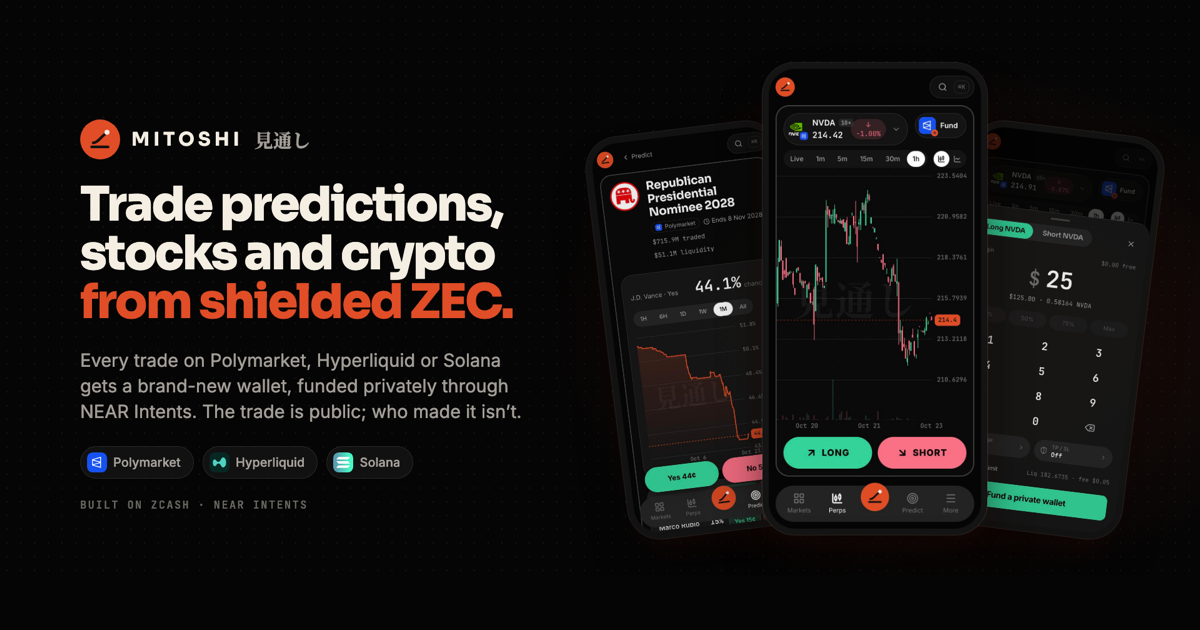
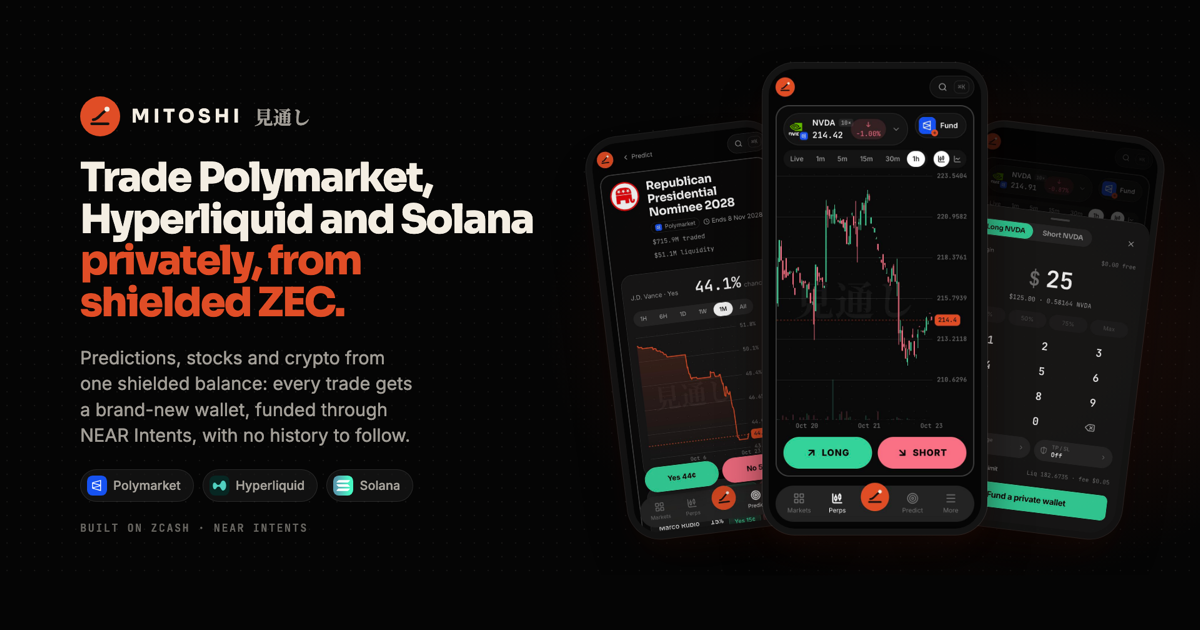
Hero: trade Polymarket, Hyperliquid and Solana privately, from shielded ZEC
The headline now says what Mitoshi is for (private trading on the venues traders
already use, with Zcash as the engine) and the subline carries what you trade and
how: predictions, stocks and crypto from one shielded balance, every trade from a
brand-new wallet funded through NEAR Intents, with no history to follow. Landing,
metadata, manifest, docs, README, banner, link preview, package and submission all
carry the same pair; the landing headline is sized to its longest line.

Changed region(s): [[0.0617, 0.1508, 0.4625, 0.5127], [0.0617, 0.5429, 0.4317, 0.8444]]

diff --git a/.github/assets/source/banner.html b/.github/assets/source/banner.html
@@ -30,13 +30,13 @@
       radial-gradient(circle, rgb(244 238 227 / 0.07) 1.2px, transparent 1.6px) 0 0 / 22px 22px,
       var(--bg);
   }
-  .left { position: absolute; left: 128px; top: 0; bottom: 0; width: 780px; display: flex; flex-direction: column; justify-content: center; gap: 34px; }
+  .left { position: absolute; left: 128px; top: 0; bottom: 0; width: 820px; display: flex; flex-direction: column; justify-content: center; gap: 34px; }
   .brand { display: flex; align-items: center; gap: 18px; }
   .seal { width: 64px; height: 64px; border-radius: 50%; background: var(--accent); display: grid; place-items: center; }
   .seal svg { width: 58%; }
   .word { font: 700 30px/1 Sora, sans-serif; letter-spacing: 0.2em; }
   .stamp { font: 700 30px/1 "Mitoshi Serif", serif; color: var(--ink-2); }
-  h1 { font: 800 76px/1.02 Sora, sans-serif; letter-spacing: -0.035em; }
+  h1 { font: 800 64px/1.04 Sora, sans-serif; letter-spacing: -0.035em; }
   h1 em { font-style: normal; color: var(--accent); }
   .sub { font: 400 29px/1.42 Inter, sans-serif; color: var(--ink-2); max-width: 720px; text-wrap: balance; }
   .venues { display: flex; align-items: center; gap: 14px; flex-wrap: wrap; }
@@ -72,8 +72,8 @@
       <span class="word">MITOSHI</span>
       <span class="stamp">見通し</span>
     </div>
-    <h1>Trade predictions,<br />stocks and crypto<br /><em>from shielded ZEC.</em></h1>
-    <p class="sub">Every trade on Polymarket, Hyperliquid or Solana gets a <span style="white-space:nowrap">brand-new</span> wallet, funded privately through NEAR Intents. The trade is public; who made it isn&rsquo;t.</p>
+    <h1>Trade Polymarket,<br />Hyperliquid and Solana<br /><em>privately, from<br />shielded ZEC.</em></h1>
+    <p class="sub">Predictions, stocks and crypto from one shielded balance: every trade gets a <span style="white-space:nowrap">brand-new</span> wallet, funded through NEAR Intents, with no history to follow.</p>
     <div class="venues">
       <span class="venue"><img src="../../../apps/web/public/marks/venue-polymarket.svg" alt="" />Polymarket</span>
       <span class="venue"><img src="../../../apps/web/public/marks/venue-hyperliquid.svg" alt="" />Hyperliquid</span>

diff --git a/apps/web/src/features/landing/landing.tsx b/apps/web/src/features/landing/landing.tsx
@@ -23,7 +23,7 @@ function Hero() {
       </span>
       <JudgeStrip />
       <LandingNav />
-      <div className="lp-wrap relative grid items-center gap-12 pt-12 md:pt-20 lg:grid-cols-[minmax(0,1.05fr)_minmax(0,1fr)]">
+      <div className="lp-wrap relative grid items-center gap-12 pt-12 md:pt-20 lg:grid-cols-[minmax(0,1.35fr)_minmax(0,1fr)]">
         <div className="lp-rise flex flex-col items-start gap-6">
           <span className="inline-flex items-center gap-2 rounded-full bg-[var(--lp-card-2)] px-3 py-1.5 text-[13px] shadow-[inset_0_0_0_1px_var(--lp-line)]">
             <span className="size-1.5 rounded-full bg-[var(--up)]" />
@@ -37,9 +37,11 @@ function Hero() {
                 {line}
               </span>
             ))}
-            <span className="block">
-              <em>{L.hero.accent}</em>
-            </span>
+            {L.hero.accent.map((line) => (
+              <span key={line} className="block">
+                <em>{line}</em>
+              </span>
+            ))}
           </h1>
           <p className="lp-line max-w-[34rem]">{L.hero.line}</p>
           <div className="flex flex-wrap gap-3">

diff --git a/apps/web/src/app/layout.tsx b/apps/web/src/app/layout.tsx
@@ -4,9 +4,9 @@ import { THEME_INIT } from "@/features/theme/theme";
 import { fontVariables } from "@/lib/fonts";
 import "./globals.css";
 
-const TITLE = "Mitoshi 見通し · Trade predictions, stocks and crypto from shielded ZEC";
+const TITLE = "Mitoshi 見通し · Trade Polymarket, Hyperliquid and Solana privately, from shielded ZEC";
 const DESCRIPTION =
-  "Every trade on Polymarket, Hyperliquid or Solana gets a brand-new wallet, funded privately through NEAR Intents. The trade is public; who made it isn't.";
+  "Predictions, stocks and crypto from one shielded balance: every trade gets a brand-new wallet, funded through NEAR Intents, with no history to follow.";
 /** The link preview (public/og.png), made from the README banner: .github/assets/source/banner.html#og. */
 const OG_WIDTH = 1200;
 const OG_HEIGHT = 630;
@@ -14,7 +14,7 @@ const OG_IMAGE = {
   url: "/og.png",
   width: OG_WIDTH,
   height: OG_HEIGHT,
-  alt: "Mitoshi: trade predictions, stocks and crypto from shielded ZEC",
+  alt: "Mitoshi: trade Polymarket, Hyperliquid and Solana privately, from shielded ZEC",
 };
 
 export const metadata: Metadata = {

diff --git a/apps/docs/src/lib/site.ts b/apps/docs/src/lib/site.ts
@@ -8,12 +8,12 @@ export const SITE = {
   url: "https://docs.mitoshi.xyz",
   app: "https://mitoshi.xyz",
   repo: "https://github.com/mitoshi-xyz/mitoshi",
-  headline: "Trade predictions, stocks and crypto from shielded ZEC.",
+  headline: "Trade Polymarket, Hyperliquid and Solana privately, from shielded ZEC.",
   subline:
-    "Every trade on Polymarket, Hyperliquid or Solana gets a brand-new wallet, funded privately through NEAR Intents. The trade is public; who made it isn't.",
+    "Predictions, stocks and crypto from one shielded balance: every trade gets a brand-new wallet, funded through NEAR Intents, with no history to follow.",
   motto: "A new wallet for every trade.",
   description:
-    "Trade predictions, stocks and crypto from shielded ZEC: every trade on Polymarket, Hyperliquid or Solana gets a brand-new wallet, funded privately through NEAR Intents.",
+    "Trade Polymarket, Hyperliquid and Solana privately, from shielded ZEC: every trade gets a brand-new wallet, funded through NEAR Intents, with no history to follow.",
 } as const;
 
 /** The docs' sections (the top tabs) and where each starts. */

diff --git a/apps/web/src/features/landing/copy.ts b/apps/web/src/features/landing/copy.ts
@@ -11,9 +11,9 @@ export const LANDING = {
   },
   hero: {
     chip: "Live on Zcash mainnet",
-    title: ["Trade predictions,", "stocks and crypto"],
-    accent: "from shielded ZEC.",
-    line: "Every trade on Polymarket, Hyperliquid or Solana gets a brand-new wallet, funded privately through NEAR Intents. The trade is public; who made it isn't.",
+    title: ["Trade Polymarket,", "Hyperliquid and Solana"],
+    accent: ["privately, from", "shielded ZEC."],
+    line: "Predictions, stocks and crypto from one shielded balance: every trade gets a brand-new wallet, funded through NEAR Intents, with no history to follow.",
     open: "Open Mitoshi",
     how: "How it works",
     small: "No account · no sign-up · your keys stay in this browser",

diff --git a/apps/docs/src/components/home/hero.tsx b/apps/docs/src/components/home/hero.tsx
@@ -24,8 +24,8 @@ export function Hero() {
             {SITE.motto}
           </span>
           <h1 className="font-heading font-semibold text-[2.4rem] leading-[1.04] tracking-[-0.03em] sm:text-[3.4rem]">
-            Trade predictions, stocks and crypto{" "}
-            <span className="text-[var(--mt-accent-text)]">from shielded ZEC.</span>
+            Trade Polymarket, Hyperliquid and Solana{" "}
+            <span className="text-[var(--mt-accent-text)]">privately, from shielded ZEC.</span>
           </h1>
           <p className="max-w-[46ch] text-[1.08rem] text-fd-muted-foreground leading-relaxed">{SITE.subline}</p>
           <div className="flex flex-wrap items-center gap-3">

diff --git a/apps/web/src/app/manifest.ts b/apps/web/src/app/manifest.ts
@@ -7,7 +7,7 @@ export default function manifest(): MetadataRoute.Manifest {
   return {
     name: "Mitoshi 見通し",
     short_name: "Mitoshi",
-    description: "Trade predictions, stocks and crypto from shielded ZEC. A new wallet for every trade.",
+    description: "Trade Polymarket, Hyperliquid and Solana privately, from shielded ZEC. A new wallet for every trade.",
     start_url: "/markets",
     display: "standalone",
     background_color: "#050505",

diff --git a/apps/web/src/app/demo/page.tsx b/apps/web/src/app/demo/page.tsx
@@ -4,7 +4,7 @@ import { Demo } from "@/features/landing/demo";
 export const metadata: Metadata = {
   title: "Demo · Mitoshi 見通し",
   description:
-    "Mitoshi in two minutes: predictions, stocks and crypto from shielded ZEC, a new wallet for every trade.",
+    "Mitoshi in two minutes: Polymarket, Hyperliquid and Solana, privately, from shielded ZEC. A new wallet for every trade.",
 };
 
 export default function DemoPage() {

diff --git a/apps/web/src/styles/landing.css b/apps/web/src/styles/landing.css
@@ -77,7 +77,8 @@
 
 /* Type */
 .lp-h1 {
-  font: 800 clamp(36px, 4.7vw, 68px) / 1 var(--font-heading);
+  /* Sized to the longest line, "Hyperliquid and Solana", so each line of the hero stays whole on wide screens. */
+  font: 800 clamp(34px, 3.8vw, 56px) / 1.02 var(--font-heading);
   letter-spacing: -0.04em;
   background: linear-gradient(180deg, #fffaf0 0%, #d9d2c5 55%, #8f887c 100%);
   -webkit-background-clip: text;

diff --git a/README.md b/README.md
@@ -1,11 +1,11 @@
 <p align="center">
   <a href="https://mitoshi.xyz">
-    <picture><img src=".github/assets/banner.png" width="960" alt="Mitoshi 見通し. Trade predictions, stocks and crypto from shielded ZEC. Every trade on Polymarket, Hyperliquid or Solana gets a brand-new wallet, funded privately through NEAR Intents. The trade is public; who made it isn't. Three phone screens from the app: a Polymarket event, the NVIDIA perps terminal and a Long order sheet." /></picture>
+    <picture><img src=".github/assets/banner.png" width="960" alt="Mitoshi 見通し. A new wallet for every trade. Trade Polymarket, Hyperliquid and Solana privately, from shielded ZEC. Predictions, stocks and crypto from one shielded balance: every trade gets a brand-new wallet, funded through NEAR Intents, with no history to follow. Three phone screens from the app: a Polymarket event, the NVIDIA perps terminal and a Long order sheet." /></picture>
   </a>
 </p>
 
 <h1 align="center">Mitoshi · 見通し</h1>
-<p align="center"><b>A new wallet for every trade.</b><br/>Trade predictions, stocks and crypto from shielded ZEC.</p>
+<p align="center"><b>A new wallet for every trade.</b><br/>Trade Polymarket, Hyperliquid and Solana privately, from shielded ZEC.</p>
 
 <p align="center">
   <a href="https://mitoshi.xyz"><b>Open Mitoshi</b></a>
@@ -23,17 +23,20 @@
   <a href="https://mitoshi.xyz/status"><b>Status</b></a>
 </p>
 
-Every trade on Polymarket, Hyperliquid or Solana gets a brand-new wallet, funded privately through NEAR Intents. The
-trade is public; who made it isn't. From one shielded ZEC balance you bet on prediction markets, trade US stocks,
+Predictions, stocks and crypto from one shielded balance: every trade gets a brand-new wallet, funded through NEAR
+Intents, with no history to follow. From one shielded ZEC balance you bet on prediction markets, trade US stocks,
 indices, gold and oil, go long or short on crypto perps, and buy Solana tokens, with one portfolio across all of them.
 The privacy is the engine: a real Zcash wallet runs in your browser, every funding is one standard amount sent at a
 random moment, every call about your wallets travels over Oblivious HTTP, and Send home swaps the money back to a fresh
-shielded address. The market sees the trade, not who made it.
+shielded address.
 
 Built for **[ZECATHON](https://thezecathon.com) · Private Markets** ([how Mitoshi meets the hackathon](#how-mitoshi-meets-the-hackathon)).
-**Judges:** the Working demo link in our submission opens a shared wallet with real money on Hyperliquid, at
-judge.mitoshi.xyz. Trade in 30 seconds.
 *Mitoshi* (見通し) means **outlook**: the view ahead.
+
+> **Judges: try it in 30 seconds.** The **Working demo** link in our submission opens judge.mitoshi.xyz with a shared
+> wallet that already holds real money on Hyperliquid, funded from shielded ZEC. Press **Trade BTC now** and go long or
+> short ($2.50 at 5× clears Hyperliquid's $10 minimum). Then the **Judge** button at the top walks you through what the
+> public sees and the funding on the Zcash explorer. No link to hand? [Look around](https://mitoshi.xyz/markets).
 
 ## The problem
 
@@ -79,8 +82,8 @@ sees one funding, one trade and no history.
 2. **Pick a market.** Say NVIDIA on Polymarket Perps. The ticket starts with the amount: **$25 at 5×** is a **$125.00**
    position, **0.58164 NVDA**, fee **$0.05**.
 3. **A wallet nobody has seen.** Mitoshi derives a new key for this position and pays one standard amount (0.005, 0.01,
-   0.02 … ZEC) from the shielded pool into NEAR Intents at a random moment. A confidential quote on 2026-10-23 turned
-   **0.01 ZEC into 11.86 USDC in about 465 s**.
+   0.02 … ZEC) from the shielded pool into NEAR Intents at a random moment. On 2026-10-27 a real **0.005 ZEC funding
+   arrived as 6.13 USDC on Hyperliquid, ready to trade 14 minutes later**.
 4. **Trade.** The order goes to the venue's real book, signed by that wallet's own key (on Polymarket Perps, by a
    7-day proxy that key authorises).
 5. **See what a copy trader sees.** "What the public sees" opens the wallet's public record: one funding from a NEAR
@@ -172,12 +175,13 @@ ZECATHON's brief: *"Thirty days to build something on Zcash that does not leak."
 | **Execution:** "Does it run. Working beats ambitious." | Live on mainnet with live venue data; a mainnet funding from the browser wallet to Hyperliquid; 40 unit tests | [Proof and evidence](#proof-and-evidence) |
 | **Originality:** "Built for this hackathon, not repackaged." | Written during the build window; a full Zcash wallet on librustzcash compiled to WASI for the browser, and one shielded balance behind four public venues | [Commit history](https://github.com/mitoshi-xyz/mitoshi/commits/main) |
 | **Private Markets:** "anything where the price should be public and the participants should not." | The venues' prices and books stay public; the trader behind each position does not | [One trade, start to finish](#one-trade-start-to-finish) |
+| **Working demo:** "Something the judges can open and use." | A shared wallet with real money on Hyperliquid, opened by the link in the submission at judge.mitoshi.xyz; or mitoshi.xyz with your own wallet | [judge.mitoshi.xyz](https://judge.mitoshi.xyz) |
 | "All code written during the build window. Libraries are fine; existing products are not." | The repository's history starts on 2026-10-22; libraries are listed above and in the lockfile | [Prior work](#prior-work) |
 | "Open source at submission." | MIT, public | [LICENSE](LICENSE) |
 
 ## Proof and evidence
 
-Dated; re-checked on 2026-10-23.
+Dated: the mainnet funding on 2026-10-27, the rest checked on 2026-10-23.
 
 | What | Evidence |
 | --- | --- |
@@ -201,7 +205,7 @@ testnet explorers follow an older testnet chain and do not show them.
 | **Predict** · Polymarket | Events with their odds history, every outcome, Yes or No at market or limit, the order book, redeem after resolution | [/predict](https://mitoshi.xyz/predict) | [Polymarket](https://docs.mitoshi.xyz/docs/venues/polymarket) |
 | **Perps** · Polymarket Perps and Hyperliquid | US stocks, indices, gold and oil, and crypto: live candles, long or short, leverage and TP/SL in their own sheets, close | [/trade](https://mitoshi.xyz/trade#pm/NVDA-USD) | [Perps](https://docs.mitoshi.xyz/docs/venues/polymarket-perps) · [Hyperliquid](https://docs.mitoshi.xyz/docs/venues/hyperliquid) |
 | **Tokens** · Solana through Jupiter | Trending tokens, a live chart, buy and sell | [/tokens](https://mitoshi.xyz/tokens) | [Solana](https://docs.mitoshi.xyz/docs/venues/solana) |
-| **Portfolio** | Every position across every wallet and venue, P&L, history, deposit and withdraw | [/portfolio](https://mitoshi.xyz/portfolio) | [Portfolio](https://docs.mitoshi.xyz/docs/guide/portfolio) |
+| **Portfolio** | One live total for everything you own, your assets token by token, open positions with live P&L, history, deposit and withdraw | [/portfolio](https://mitoshi.xyz/portfolio) | [Portfolio](https://docs.mitoshi.xyz/docs/guide/portfolio) |
 | **Wallets** | Each private wallet's timeline, "keep one ready", what the public sees, send home | [/wallets](https://mitoshi.xyz/wallets) | [Private wallets](https://docs.mitoshi.xyz/docs/guide/private-wallets) |
 | **Privacy and status** | Who sees what and the leak meter; the live state of every hop | [/privacy](https://mitoshi.xyz/privacy) · [/status](https://mitoshi.xyz/status) | [Privacy](https://docs.mitoshi.xyz/docs/privacy) · [Verify](https://docs.mitoshi.xyz/docs/privacy/verify) |
 | **Settings** | Recovery words and an encrypted backup file, a passphrase lock, Forget | [/settings](https://mitoshi.xyz/settings) | [Backup and recovery](https://docs.mitoshi.xyz/docs/guide/backup-and-recovery) |

diff --git a/.github/submission/fields.md b/.github/submission/fields.md
@@ -7,7 +7,7 @@ separate problem field, so the problem opens the Description in the README's wor
 | --- | --- | --- |
 | Project name | 64 | Mitoshi 見通し |
 | Track | one | Private Markets |
-| Description | 2000 | below (1,995 characters) |
+| Description | 2000 | below (1,989 characters) |
 | Code repository | URL | https://github.com/mitoshi-xyz/mitoshi |
 | Working demo | URL | The judges' link (`https://judge.mitoshi.xyz/#k=…`): the owner holds it; the key never goes in this repository |
 | Demo video | URL | (the two-minute recording, once uploaded) |
@@ -16,11 +16,11 @@ separate problem field, so the problem opens the Description in the README's wor
 ## Description
 
 ```text
-Trade predictions, stocks and crypto from shielded ZEC. Every trade on Polymarket, Hyperliquid or Solana gets a brand-new wallet, funded privately through NEAR Intents. The trade is public; who made it isn't.
+Trade Polymarket, Hyperliquid and Solana privately, from shielded ZEC. Predictions, stocks and crypto from one shielded balance: every trade gets a brand-new wallet, funded through NEAR Intents, with no history to follow.
 
 The problem: on these markets every trade is public, and tools rank wallets so others can copy them. Traders use a new wallet for every trade, but the money that funds it gives it away: a transfer from the main wallet is public, and an exchange records every withdrawal under your name. "I created another wallet to trade in peace and people found it."
 
-What it does: a real Zcash wallet (librustzcash in WASM, Ironwood-ready) runs in your browser. For each position on Polymarket, Polymarket Perps (US stocks, gold, oil), Hyperliquid or Solana, Mitoshi derives a fresh key and funds it from the shielded pool through NEAR Intents. The order goes to the venue's real book. Send home swaps the money back to a fresh shielded address. No account, no fee.
+What it does: a real Zcash wallet (librustzcash in WASM) runs in your browser. For each position on Polymarket, Polymarket Perps (US stocks, gold, oil), Hyperliquid or Solana, Mitoshi derives a fresh key and funds it from the shielded pool through NEAR Intents. The order goes to the venue's real book. Send home swaps the money back to a fresh shielded address. No account, no fee.
 
 Why it does not leak:
 - One wallet per position: no two share a key, proxy, refund address or request.
